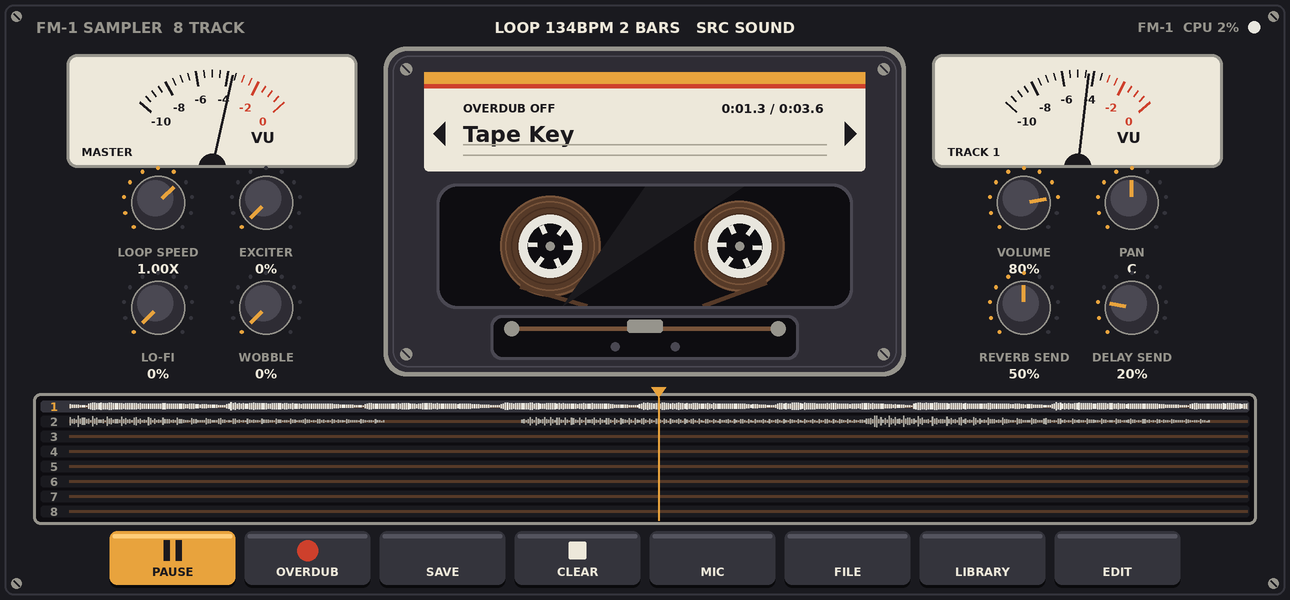
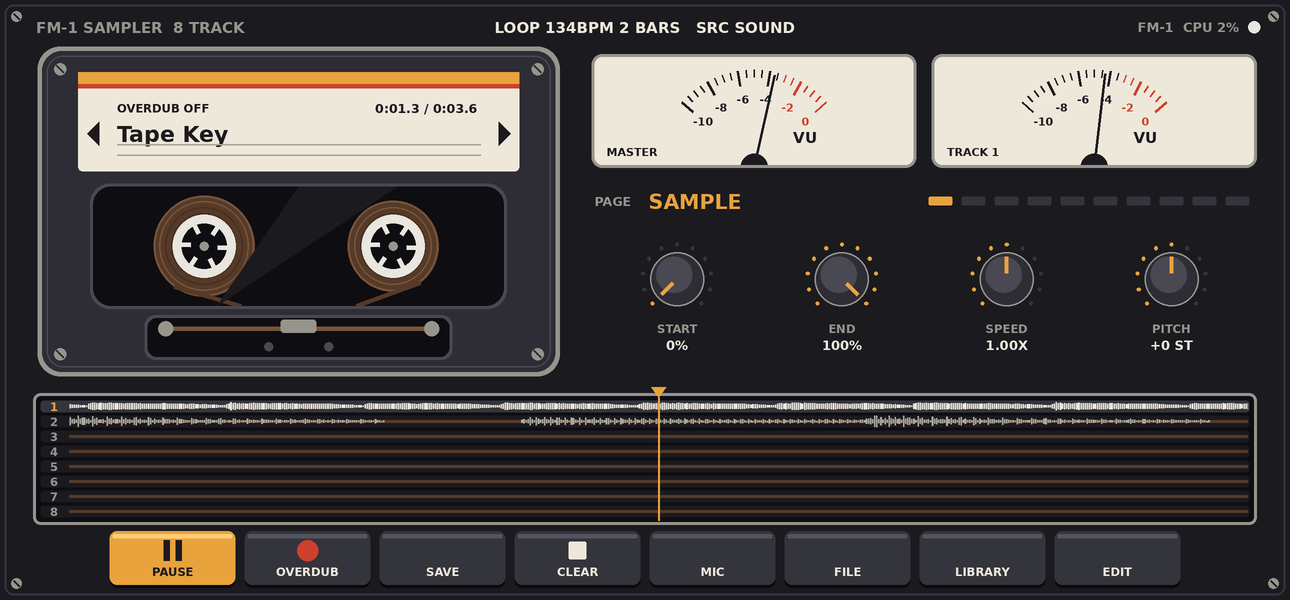
Deck: cassette on the left, the four knobs of the selected page on the right with page name and page notches
Claude-Session: https://claude.ai/code/session_016UqCt9T8NsvfVfNVcqrtLq

Changed region(s): [[0.031, 0.06, 0.9612, 0.63], [0.9302, 0.09, 0.9922, 0.3]]

diff --git a/engine/ui/SamplerUI.cpp b/engine/ui/SamplerUI.cpp
@@ -162,7 +162,7 @@ void SamplerUI::knob(float cx, float cy, SamplerApp::Page page, int idx, bool se
     circle(cx - 2, cy - 3, R - 5, kShellHi);
     const float a = (-135.f + n * 270.f) * kPi / 180;
     line(cx + std::sin(a) * 4, cy - std::cos(a) * 4, cx + std::sin(a) * (R - 2), cy - std::cos(a) * (R - 2), kAmber, 2.5f);
-    text(cx, cy + R + 16, 8.5f, kMetal, fit(p.name, 70, 8.5f), 1, true);
+    text(cx, cy + R + 16, 8.5f, kMetal, fit(p.name, 100, 8.5f), 1, true);
     text(cx, cy + R + 27, 9.5f, kPaper, p.value, 1, true);
     Rect hr{cx - 30, cy - R - 10, 60, 2 * R + 40};
     hit(hr, [this, n](float, float y) { dragY_ = y; dragV_ = n; },
@@ -302,20 +302,24 @@ void SamplerUI::deck(Rect r) {
     text(W_ - 34, 18, 9.5f, kMetal, std::string(linkMidi_ ? "FM-1  " : "NO FM-1  ") + "CPU " + num("%.0f", st_.cpu_permille / 10.0) + "%", 2, true);
     // centre: the cassette, VU needles and knobs on both sides
     const float top = 34, ch = 214, cw = std::min(ch * 1.6f, W_ * 0.42f);
-    const float cx = W_ / 2, cxl = cx - cw / 2, zl = 24, zr = W_ - 24;
+    const float cxl = 28, zr = W_ - 24, x0 = cxl + cw + 26, w0 = zr - x0;
     cassette({cxl, top, cw, ch});
-    // VU: master (left) and the selected track (right)
+    // right side: the VU needles (master, selected track), the selected page and its four knobs in a line
     auto smooth = [](float& vu, float peak) { const float db = peak > 1e-4f ? 20 * std::log10(peak) : -80.f; const float t = clamp01((db + 38.f) / 41.f); vu += (t - vu) * (t > vu ? 0.55f : 0.14f); return vu; };
     const float vl = smooth(vu_[0], st_.master_peak), vr = smooth(vu_[1], st_.track_peak[app_.track()]);
-    const float vw = std::min(190.f, cxl - zl - 14), vh = 72;
-    const float lcx = zl + (cxl - zl) / 2, rcx = cxl + cw + (zr - cxl - cw) / 2;
-    vu({lcx - vw / 2, top + 4, vw, vh}, vl, "MASTER");
-    vu({rcx - vw / 2, top + 4, vw, vh}, vr, "TRACK " + std::to_string(app_.track() + 1));
-    const float ky = top + vh + 29, kdx = std::min(56.f, vw / 2);
-    for (int i = 0; i < 4; i++) {
-        knob(lcx + (i % 2 ? kdx / 2 + 8 : -kdx / 2 - 8), ky + (i / 2) * 70, SamplerApp::P_SEQ, i);
-        knob(rcx + (i % 2 ? kdx / 2 + 8 : -kdx / 2 - 8), ky + (i / 2) * 70, SamplerApp::P_MIX, i);
+    const float vw = (w0 - 14) / 2, vh = 72;
+    vu({x0, top + 4, vw, vh}, vl, "MASTER");
+    vu({x0 + vw + 14, top + 4, vw, vh}, vr, "TRACK " + std::to_string(app_.track() + 1));
+    const float py = top + vh + 28;
+    text(x0, py, 9, kMetal, "PAGE", 0, true);
+    text(x0 + 36, py, 15, kAmber, SamplerApp::pageName(app_.page()), 0, true);
+    for (int i = 0; i < 10; i++) {   // the pages as notches: tap one to go there (the FM-1 buttons do the same)
+        Rect nr{zr - (10 - i) * 22.f, py - 11, 22, 22};
+        rrect({nr.x + 3, py - 3, 16, 6}, 1, kTabs[i] == app_.page() ? kAmber : kPanelHi);
+        tap(nr, [this, i] { app_.gotoPage(kTabs[i]); });
     }
+    const float ky = py + 52;
+    for (int i = 0; i < 4; i++) knob(x0 + w0 * (i + 0.5f) / 4, ky, app_.page(), i);
     // the loops
     tapeStrip({24, top + ch + 16, W_ - 48, 84});
     // transport keys
